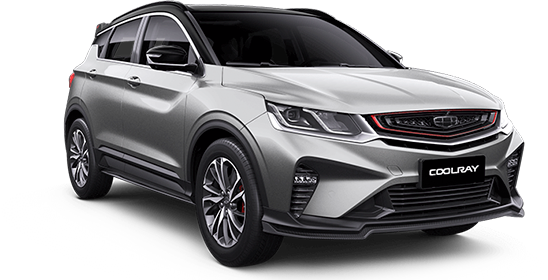
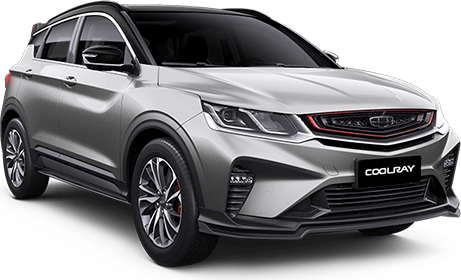
style: закончена верстка 3-го слайдера

diff --git a/pages/index.css b/pages/index.css
@@ -582,13 +582,15 @@
   font-weight: bold;
   text-transform: uppercase;
   text-decoration: none;
+
+  margin-top: 6px;
 }
 .info__select-complete-arrow {
   margin-top: 12px;
 }
 
 .info__slider-elements-car {
-  margin-top: 44px;
+  margin-top: 146px;
   max-width: 142px;
   display: flex;
   flex-direction: column;
@@ -599,13 +601,19 @@
 }
 
 .info__slider-color-car {
+  max-width: 461px;
   display: flex;
   flex-direction: column;
 }
 
+
+.info__slider-color-car-img {
+  margin-top: 37px;
+  margin-left: 27px;
+}
+
 .car-color-slick-dots {
-  display: flex;
-  justify-content: center;
+
 }
 
 .car-color-slider {
@@ -617,9 +625,12 @@
 .car-color-slick-dots {
   margin: 0;
   padding: 0;
-  text-align: center;
   display: flex;
   justify-content: center;
+
+  align-self: flex-start;
+  margin-left: 29px;
+  text-align: center;
   list-style: none;
 }
 
@@ -648,7 +659,7 @@
   height: 24px;
   width: 24px;
   background: transparent;
-  border: 1px solid rgb(0, 0, 0);
+  border: 1px solid #fff;
 }
 .car-color-slick-dots li:nth-child(1) button {
   background: #FF0000;

diff --git a/index.html b/index.html
@@ -274,15 +274,15 @@
               </div>
 
               <div class="info__slider-color-car car-color-slider">
-                <img src="images/car-red.png">
+                <img class="info__slider-color-car-img" src="images/car-red.png">
 
-                <img src="images/car-gray.png">
+                <img class="info__slider-color-car-img" src="images/car-gray.png">
 
-                <img src="images/car-white.png">
+                <img class="info__slider-color-car-img" src="images/car-white.png">
 
-                <img src="images/car-dark-gray.png">
+                <img class="info__slider-color-car-img" src="images/car-dark-gray.png">
 
-                <img src="images/car-blue.png">
+                <img class="info__slider-color-car-img" src="images/car-blue.png">
               </div>
             </div>
           </div>
